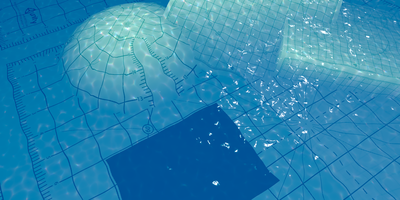
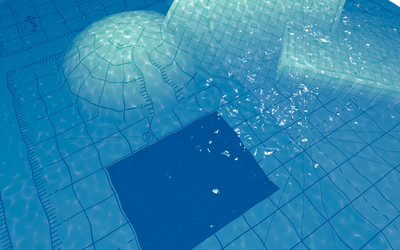
Added more images

diff --git a/stylized-water.html b/stylized-water.html
@@ -71,7 +71,7 @@
         <div>
           <!-- RICH COLORS -->
           <div class="row align-items-center text-md-left mb-5">
-            <div class="col-md-6 order-1 order-md-0"><img class="img-fluid" src="img/shaders/stylized-water/features/foam.png"
+            <div class="col-md-6 order-1 order-md-0"><img class="img-fluid" src="img/shaders/stylized-water/features/rich-colors.png"
                 alt=""></div>
             <div class="col-md-6 mb-4 mb-md-0"><span class="display-3 mb-2"></span>
               <h3 class="mb-4">Rich Colors</h3>
@@ -109,7 +109,7 @@
 
           <!-- REFLECTIONS -->
           <div class="row align-items-center text-md-left mb-5">
-            <div class="col-md-6 order-1 order-md-0"><img class="img-fluid" src="img/shaders/stylized-water/features/foam.png"
+            <div class="col-md-6 order-1 order-md-0"><img class="img-fluid" src="img/shaders/stylized-water/features/reflections.png"
                 alt=""></div>
             <div class="col-md-6 mb-4 mb-md-0"><span class="display-3 mb-2"></span>
               <h3 class="mb-4">Reflections</h3>
